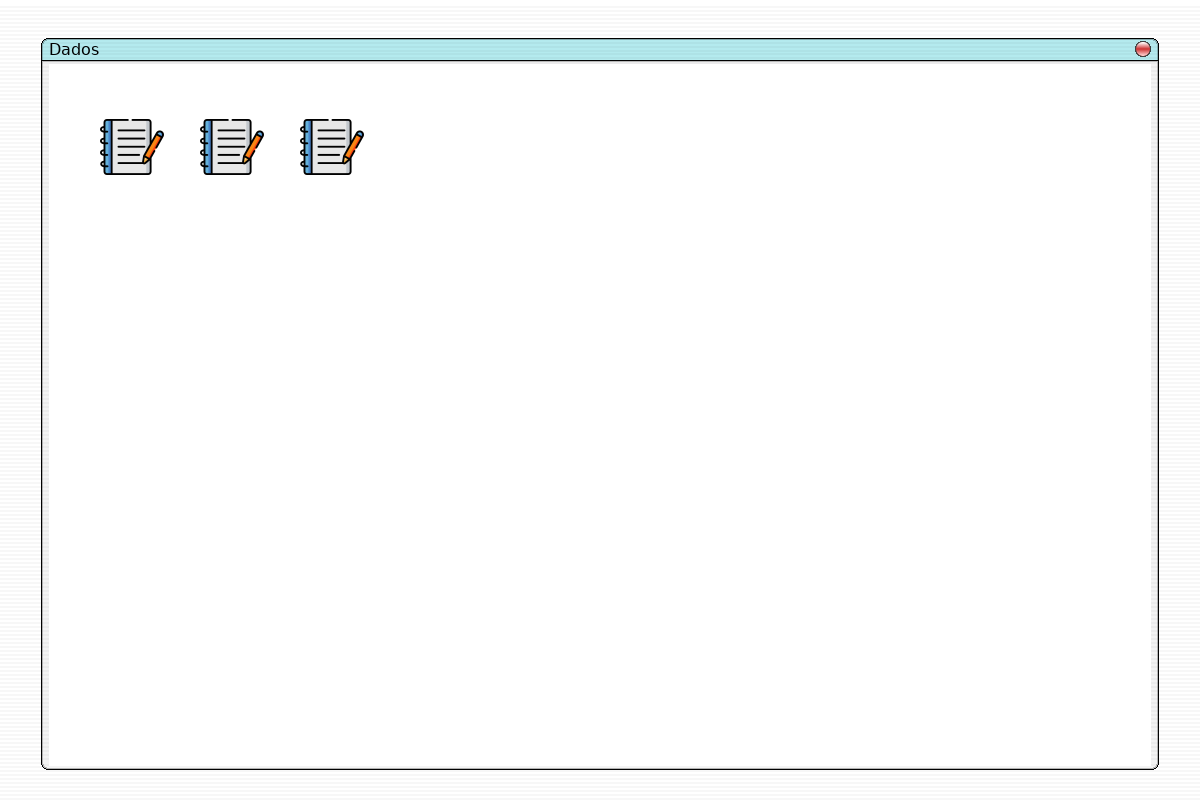
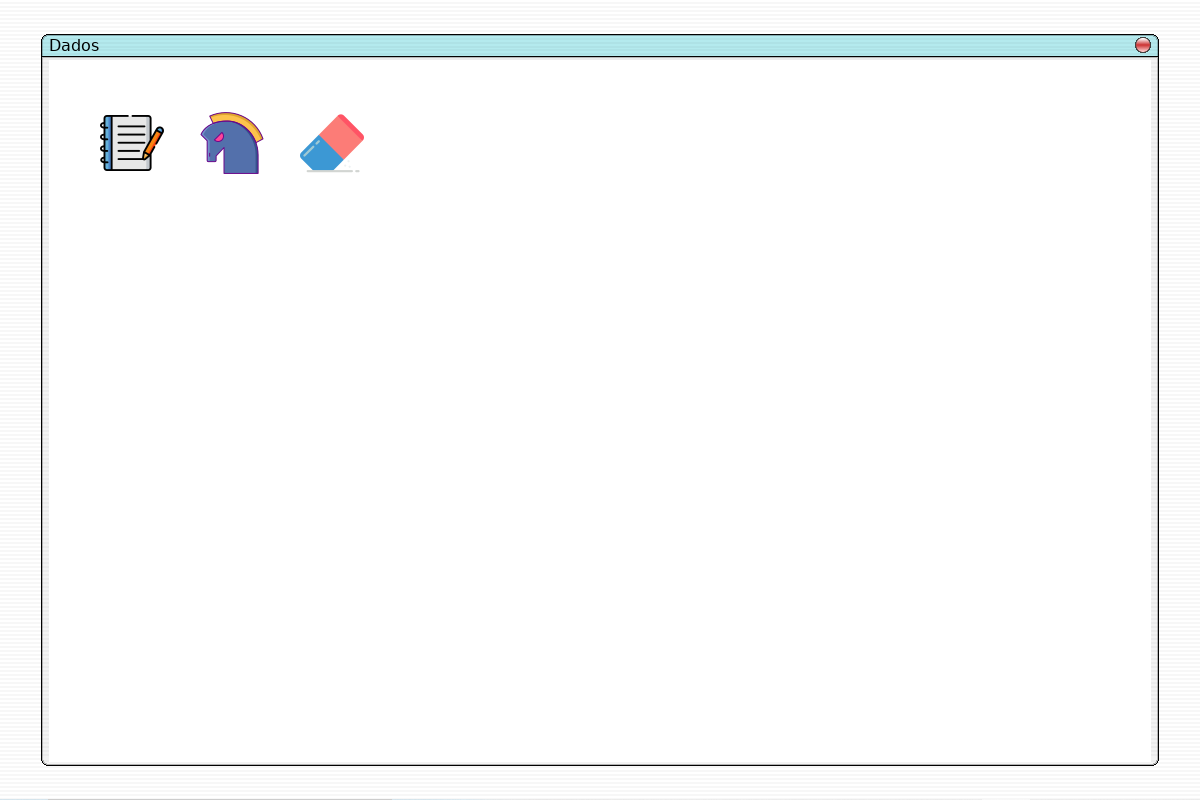
commit recente

diff --git a/o_hacker.py b/o_hacker.py
@@ -13,7 +13,10 @@ def name():
     for i in range(12):
         text_bool.append(False)
 
-
+    # icones desktop
+    img_CC = pg.image.load("img/desktop/CC.png")
+    img_senhas = pg.image.load("img/desktop/senhas.png")
+    img_confidencial = pg.image.load("img/desktop/confidential.png")
 
     # Título e ícone
     pg.display.set_caption("O Hacker")
@@ -30,6 +33,11 @@ def name():
 
     bg_dados = pg.image.load('img/bg/bg_dados.png')
     bg_dados_ip = pg.image.load('img/bg/bg_dados_ip.png')
+    bg_trojan = pg.image.load('img/bg/bg_trojan.png')
+    bg_apaga = pg.image.load('img/bg/bg_apaga.png')
+    bg_confidencial = pg.image.load('img/bg/bg_confidencial.png')
+    bg_CC = pg.image.load('img/bg/bg_CC.png')
+    bg_senhas = pg.image.load('img/bg/bg_senhas.png')
 
     bg_cmd = pg.image.load('img/bg/bg_cmd.png')
 
@@ -122,9 +130,19 @@ def name():
 
     cmd = False
     log = False
+    log1 = True
+    log2 = False
+    log3 = False
+    log4 = False
+
 
     dados = False
     dados_ip = False
+    dados_apaga = False
+    dados_trojan = False
+    dados_confidencial = False
+    dados_CC = False
+    dados_senhas = False
 
     # Booleans jogo
 
@@ -194,6 +212,10 @@ def name():
         save_name.append(hacker[i])
 
     while True:
+
+
+
+
         while desktop is True:
             screen.blit(bg_desktop, (0, 0))
 
@@ -235,23 +257,23 @@ def name():
                 if evt.type == pg.MOUSEBUTTONDOWN:
                     mx, my = pg.mouse.get_pos()
                     print(mx, my)
-                    if 1135 < mx < 1150 and 39 < my < 54:
+                    if 1138 < mx < 1153 and 39 < my < 54:
                         desktop = True
                         log = False
 
-                if bool_chat3 is True:
-                    for i in range(29, 37):
+                if log4 is True:
+                    for i in range(30, 38):
                         screen.blit(font.render(hacker[i], True, (0, 0, 0)), (100, 125 + ((i-29) * 50)))
 
-                elif bool_chat2 is True:
-                    for i in range(21, 29):
+                elif log3 is True:
+                    for i in range(21, 30):
                         screen.blit(font.render(hacker[i], True, (0, 0, 0)), (100, 125 + ((i-21) * 50)))
 
-                elif bool_chat1 is False:
+                elif log2 is True:
                     for i in range(11, 21):
                         screen.blit(font.render(hacker[i], True, (0, 0, 0)), (100, 125 + ((i-11) * 50)))
 
-                elif bool_chat1 is True:
+                elif log1 is True:
                     for i in range(11):
                         screen.blit(font.render(hacker[i], True, (0, 0, 0)), (100, 125 + (i * 50)))
 
@@ -341,6 +363,16 @@ def name():
 
         while dados is True:
             screen.blit(bg_dados, (0, 0))
+
+
+
+            if Download_Banco1 is True:
+                screen.blit(img_confidencial, (400, 115))
+            if Download_Banco2 is True:
+                screen.blit(img_CC, (500, 115))
+            if Download_Banco3 is True:
+                screen.blit(img_senhas, (600, 115))
+
             for evt in pg.event.get():
 
 
@@ -357,12 +389,29 @@ def name():
                         dados_ip = True
                         dados = False
                         print(dados_ip)
-                    """if 205 < mx < 255 and 115 < my < 170:
-                        doc_lixeira2 = True
-                        lixeira = False
+                    if 205 < mx < 255 and 115 < my < 170:
+                        dados_trojan = True
+                        dados = False
                     if 305 < mx < 355 and 115 < my < 170:
-                        doc_lixeira3 = True
-                        lixeira = False"""
+                        dados_apaga = True
+                        dados = False
+
+                    if Download_Banco1 is True:
+
+                        if 405 < mx < 455 and 115 < my < 170:
+                            dados_confidencial = True
+                            dados = False
+                    if Download_Banco2 is True:
+
+                        if 505 < mx < 555 and 115 < my < 170:
+                            dados_CC = True
+                            dados = False
+                    if Download_Banco3 is True:
+
+                        if 605 < mx < 655 and 115 < my < 170:
+                            dados_senhas = True
+                            dados = False
+
             pg.display.flip()
 
         while dados_ip is True:
@@ -376,11 +425,85 @@ def name():
                 if evt.type == pg.MOUSEBUTTONDOWN:
                     mx, my = pg.mouse.get_pos()
                     print(mx, my)
-                    if 1095 < mx < 1110 and 90 < my < 104:
+                    if 1085 < mx < 1100 and 90 < my < 104:
                         dados = True
                         dados_ip = False
             pg.display.flip()
 
+        while dados_trojan is True:
+            screen.blit(bg_trojan, (0, 0))
+            for evt in pg.event.get():
+
+                if evt.type == QUIT:
+                    return
+
+                if evt.type == pg.MOUSEBUTTONDOWN:
+                    mx, my = pg.mouse.get_pos()
+                    print(mx, my)
+                    if 1085 < mx < 1100 and 94 < my < 110:
+                        dados = True
+                        dados_trojan = False
+            pg.display.flip()
+
+        while dados_apaga is True:
+            screen.blit(bg_apaga, (0, 0))
+            for evt in pg.event.get():
+
+                if evt.type == QUIT:
+                    return
+
+                if evt.type == pg.MOUSEBUTTONDOWN:
+                    mx, my = pg.mouse.get_pos()
+                    print(mx, my)
+                    if 1085 < mx < 1100 and 105 < my < 122:
+                        dados = True
+                        dados_apaga = False
+            pg.display.flip()
+
+        while dados_confidencial is True:
+            screen.blit(bg_confidencial, (0, 0))
+            for evt in pg.event.get():
+
+                if evt.type == QUIT:
+                    return
+
+                if evt.type == pg.MOUSEBUTTONDOWN:
+                    mx, my = pg.mouse.get_pos()
+                    print(mx, my)
+                    if 1085 < mx < 1100 and 94 < my < 110:
+                        dados = True
+                        dados_confidencial = False
+            pg.display.flip()
+
+        while dados_CC is True:
+            screen.blit(bg_CC, (0, 0))
+            for evt in pg.event.get():
+
+                if evt.type == QUIT:
+                    return
+
+                if evt.type == pg.MOUSEBUTTONDOWN:
+                    mx, my = pg.mouse.get_pos()
+                    print(mx, my)
+                    if 1085 < mx < 1100 and 104 < my < 120:
+                        dados = True
+                        dados_CC = False
+            pg.display.flip()
+
+        while dados_senhas is True:
+            screen.blit(bg_senhas, (0, 0))
+            for evt in pg.event.get():
+
+                if evt.type == QUIT:
+                    return
+
+                if evt.type == pg.MOUSEBUTTONDOWN:
+                    mx, my = pg.mouse.get_pos()
+                    print(mx, my)
+                    if 1085 < mx < 1100 and 94 < my < 110:
+                        dados = True
+                        dados_senhas = False
+            pg.display.flip()
 
         while cmd is True:
             screen.blit(bg_cmd, (0, 0))
@@ -415,6 +538,7 @@ def name():
 
                         if chat1 == 10:
                             pg.time.set_timer(pg.USEREVENT, 0)
+                            log2 = True
                             bool_chat1 = False
 
                     if Connect_delay is True:
@@ -442,6 +566,7 @@ def name():
                         save_name[10] = hacker[21 + chat2]
                         chat2 += 1
                         if chat2 == 9:
+                            log3 = True
                             pg.time.set_timer(pg.USEREVENT, 0)
                             bool_chat2 = False
 
@@ -450,6 +575,7 @@ def name():
                         save_name[10] = hacker[30 + chat3]
                         chat3 += 1
                         if chat3 == 8:
+                            log4 = True
                             pg.time.set_timer(pg.USEREVENT, 0)
                             bool_chat3 = False
 
@@ -457,7 +583,7 @@ def name():
                         print('mudar background')
                         if Execute_Hacker is True and Upload_Hacker is True:
                             print('Pior final')
-                        elif Execute_Hacker is True and Upload_Hacker is True:
+                        elif Execute_Hacker is True and Upload_Hacker is False:
                             print('Final Médio')
                         elif Execute_Safe is True and Upload_Hacker is True:
                             print('Final Médio BOM')
@@ -544,7 +670,7 @@ def name():
                                 Disconnect_Geral = False
 
 
-                            if save_name[10] == ('connect 157.76.32.233'):
+                            if save_name[10] == ('connect 157.76.32.223'):
                                 Connect_Banco3 = True
 
                                 scroll()
@@ -687,7 +813,7 @@ def name():
 
                         if Hacker_Final is True:
                             if Download_Hacker is True:
-                                if save_name[10] == ('execute Testa_de_Ferro.exe'):
+                                if save_name[10] == ('execute Dados/Testa_de_Ferro.exe'):
                                     Execute_Hacker = True
                                     Execute_Geral = True
                                     scroll()
@@ -695,7 +821,7 @@ def name():
                                     pg.time.set_timer(pg.USEREVENT, 3000)
 
                         if Hacker_Final is True:
-                            if save_name[10] == ('execute apaga_rastro.rofl'):
+                            if save_name[10] == ('execute Dados/apaga_rastro.rofl'):
                                 Execute_Safe = True
                                 Execute_Geral = True
                                 scroll()

diff --git a/teste.py b/teste.py
@@ -81,7 +81,7 @@ class Arquivo_Dados1(gui.Dialog):
 
         width = 1000
         height = 600
-        doc = gui.Document(width=width)
+        doc = gui.Document(width=width, height=height)
 
         space = title.style.font.size(" ")
 
@@ -146,27 +146,59 @@ class Arquivo_Dados1(gui.Dialog):
             doc.space(space)
         doc.br(space[0])
 
-        gui.Dialog.__init__(self, title, gui.ScrollArea(doc, 0, height))
+        gui.Dialog.__init__(self, title, gui.ScrollArea(doc, 0, 0))
 
 class Arquivo_Dados2(gui.Dialog):
     def __init__(self, **params):
-        title = gui.Label("About Cuzco's Paint")
+        title = gui.Label("CC.txt")
 
         width = 1000
-        height = 600
-        doc = gui.Document(width=width)
+        height = 400
+        doc = gui.Document(width=width, height=height)
 
         space = title.style.font.size(" ")
 
-        for i in range(0, 3):
-            doc.block(align=-1)
-            for word in """Lorem ipsum dolor sit amet, consectetur adipiscing elit. Fusce duiblandit eget 
-            sodales nec, maximus volutpat lectus. Aliquam a.""".split(" "):
-                doc.add(gui.Label(word))
-                doc.space(space)
-            doc.br(space[1])
 
-        gui.Dialog.__init__(self, title, gui.ScrollArea(doc, 0, height))
+        doc.block(align=-1)
+        doc.block(align=-1)
+        for word in """tjlEEPAttNzJepTUx6X4
+                                C8kLJN57yg0S0hdt1oFt
+                        O54C0XWphz8iAlyVyE1n
+                        6tRqgNq0164JYfBd64pW 
+                                6XEBBRv0z9O0NJS15g9V""".split(" "):
+            doc.add(gui.Label(word))
+            doc.space(space)
+        doc.br(space[1])
+
+        doc.block(align=-1)
+        for word in """bPNfTfIaZuQ0YvMucVjx
+                        0v8TX4wsYG4h9yGOSDxf
+                        5k1V3a7nYLUF6uSh4QPW
+                                t8vKUdKQPMrpfqWhijQw
+                                O2Z7td1ASNm5tEm9xOn2
+                        """.split(" "):
+            doc.add(gui.Label(word))
+            doc.space(space)
+        doc.br(space[1])
+        for word in """aIkJLzFfyTdVLKhKHAnF
+                                v47qKA12BnVXs2feZ5uN
+                                saJJAMWVyiRCVXQVe0I4
+                                APMcngdeYvoOi5sbQKcV
+                                DXs8F1ZiUS7OQwGf8NSE""".split(" "):
+            doc.add(gui.Label(word))
+            doc.space(space)
+        doc.br(space[1])
+
+
+        for word in """p93mk38leMjYGLGvgjYj
+jVPzdboxa0SAYziZ0326
+m0YpLpdvfDRpMATl6Cla
+VDa2VulXF6J1mpfxHin1
+jqEwuWQm954Gipc5uzg4""".split(" "):
+            doc.add(gui.Label(word))
+            doc.space(space)
+        doc.br(space[1])
+        gui.Dialog.__init__(self, title, gui.ScrollArea(doc, 0, 0))
 
 class Arquivo_Dados3(gui.Dialog):
     def __init__(self, **params):
@@ -206,9 +238,9 @@ class Bin_Desk(gui.Dialog):
         doc = gui.Container(width=width, height= height)
         img1 = gui.Image("img/desktop/notes.png")
         img1.connect(gui.CLICK, Arquivo_Lixo1().open, None)
-        img2 = gui.Image("img/desktop/notes.png")
+        img2 = gui.Image("img/desktop/trojan.png")
         img2.connect(gui.CLICK, Arquivo_Lixo2().open, None)
-        img3 = gui.Image("img/desktop/notes.png")
+        img3 = gui.Image("img/desktop/eraser.png")
         img3.connect(gui.CLICK, Arquivo_Lixo3().open, None)
 
         doc.add(img1, 50, 50)
@@ -233,11 +265,11 @@ class Pasta_Desk(gui.Dialog):
         img1.connect(gui.CLICK, Arquivo_Dados1().open, None)
         doc.add(img1, 50, 50)
 
-        img2 = gui.Image("img/desktop/notes.png")
+        img2 = gui.Image("img/desktop/trojan.png")
         img2.connect(gui.CLICK, Arquivo_Dados2().open, None)
         doc.add(img2, 150, 50)
 
-        img3 = gui.Image("img/desktop/notes.png")
+        img3 = gui.Image("img/desktop/eraser.png")
         img3.connect(gui.CLICK, Arquivo_Dados3().open, None)
         doc.add(img3, 250, 50)
 
